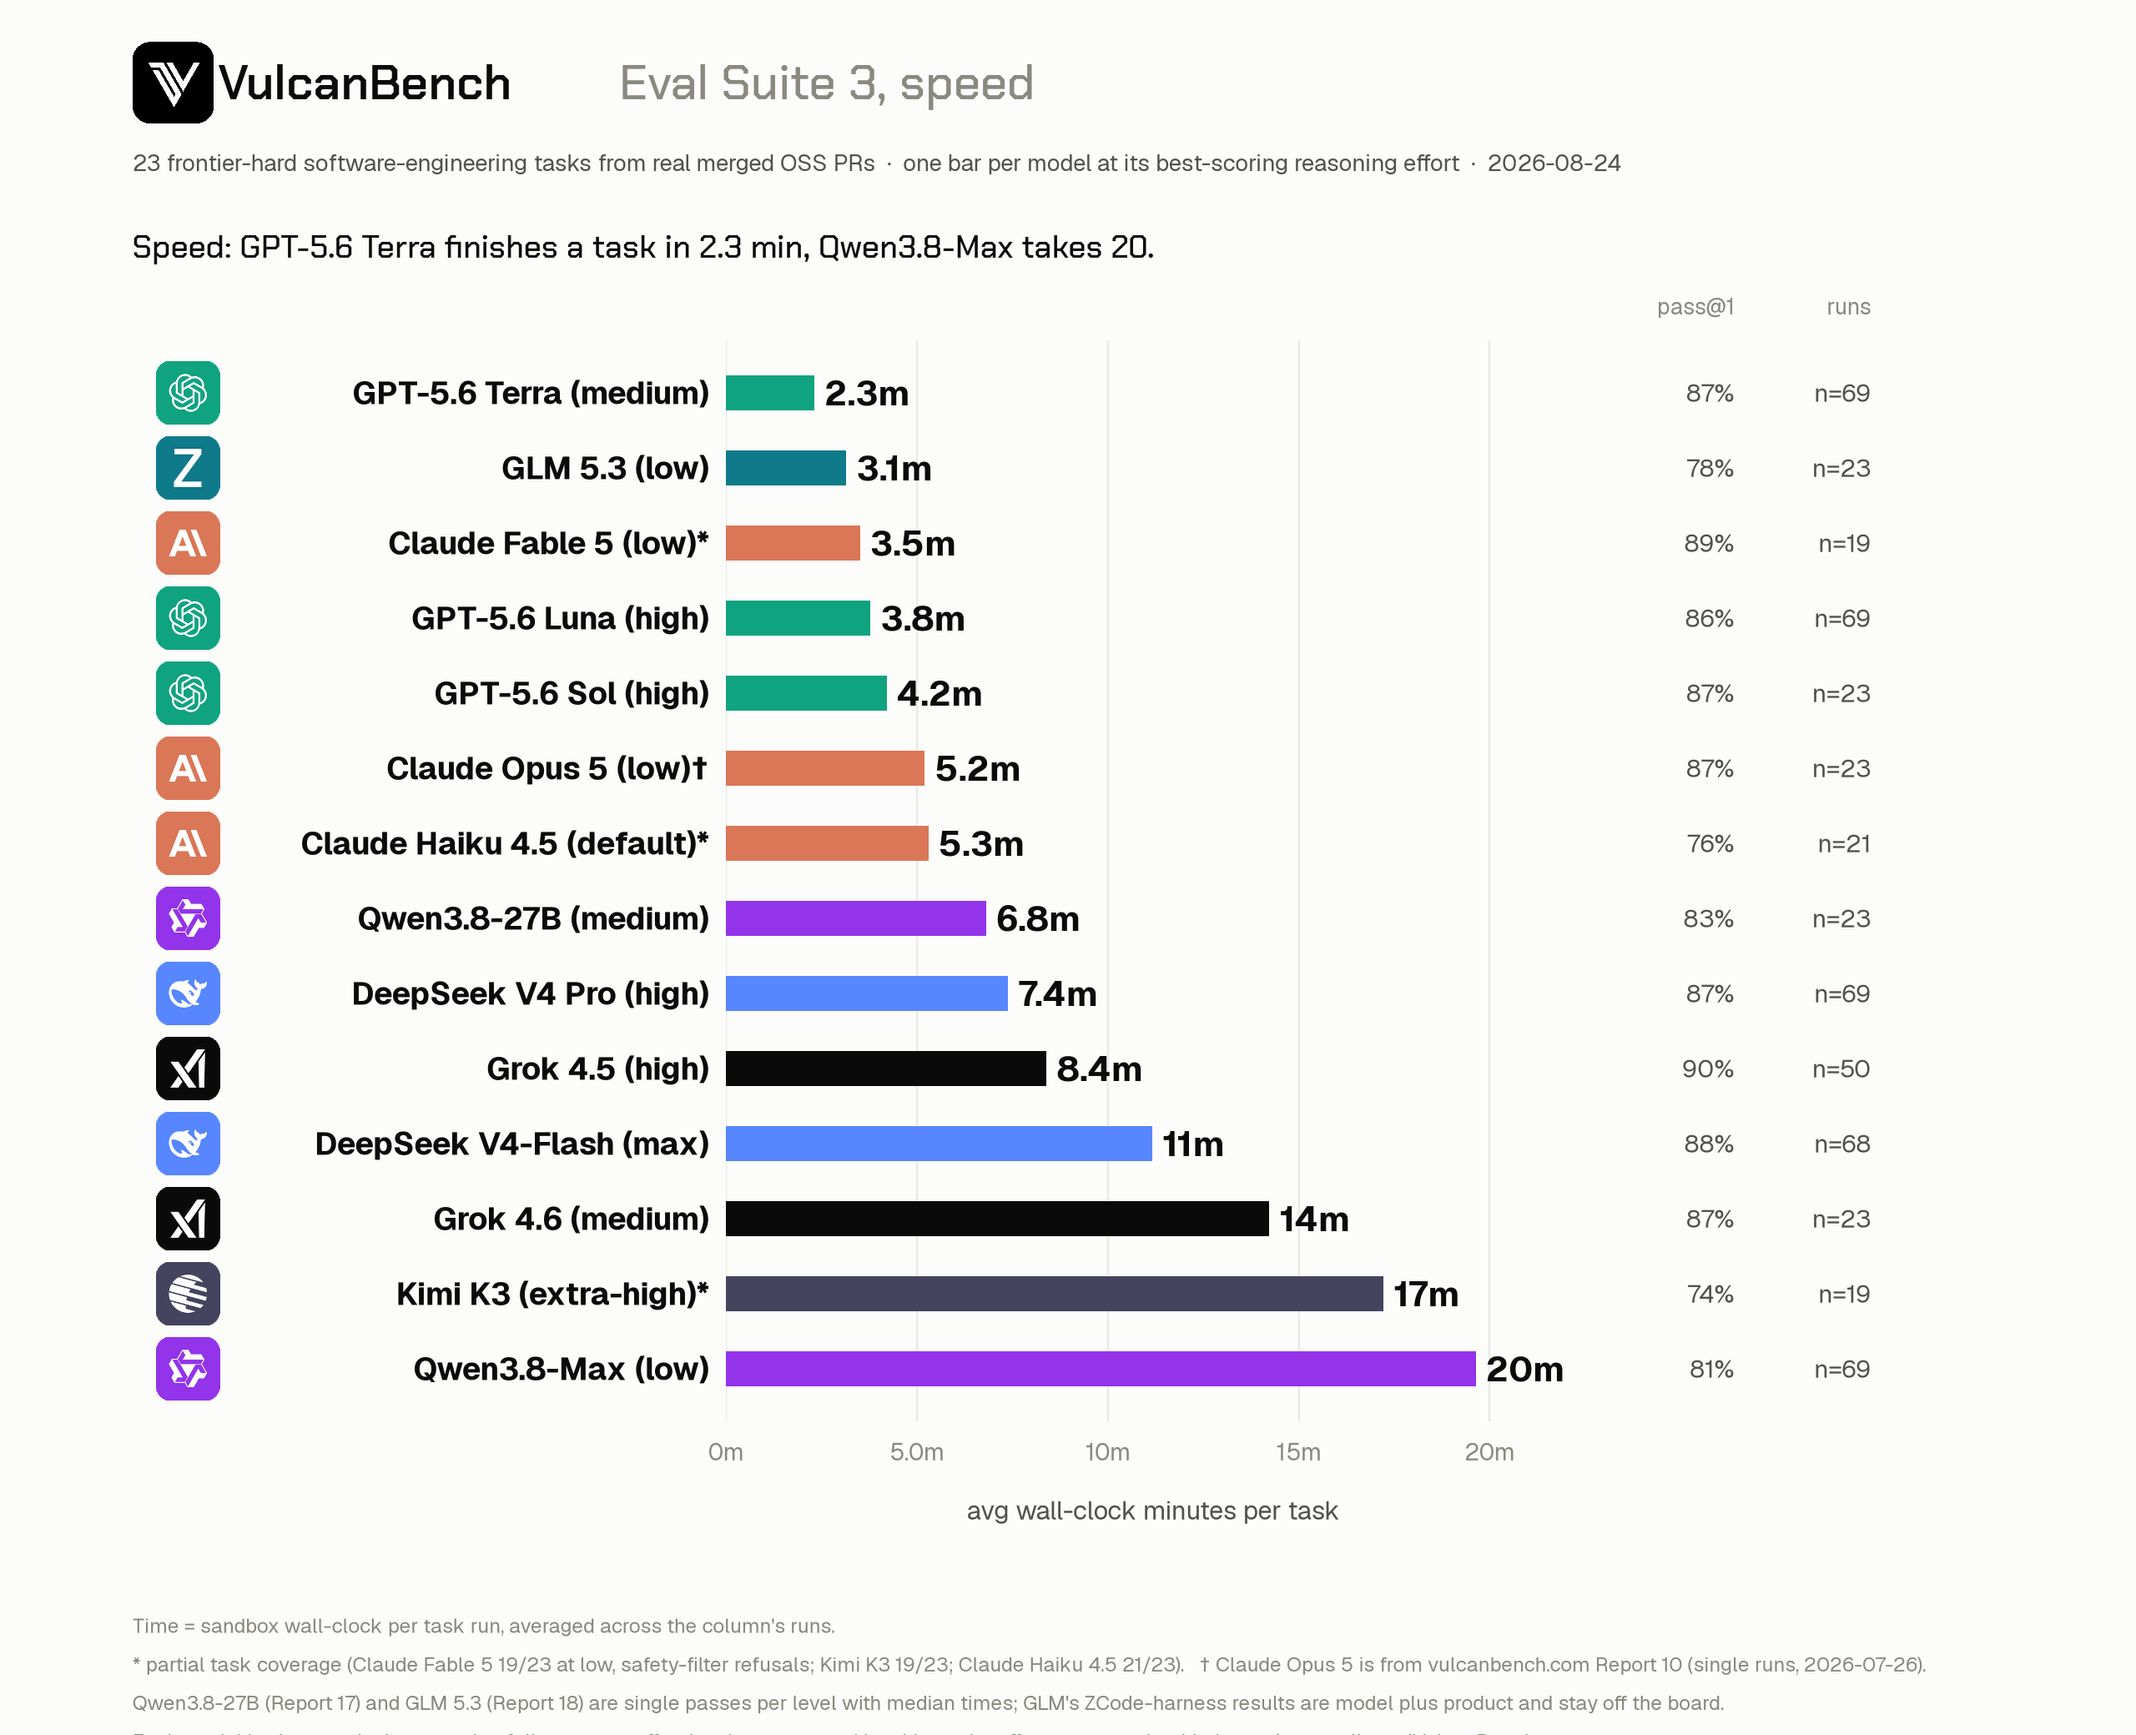
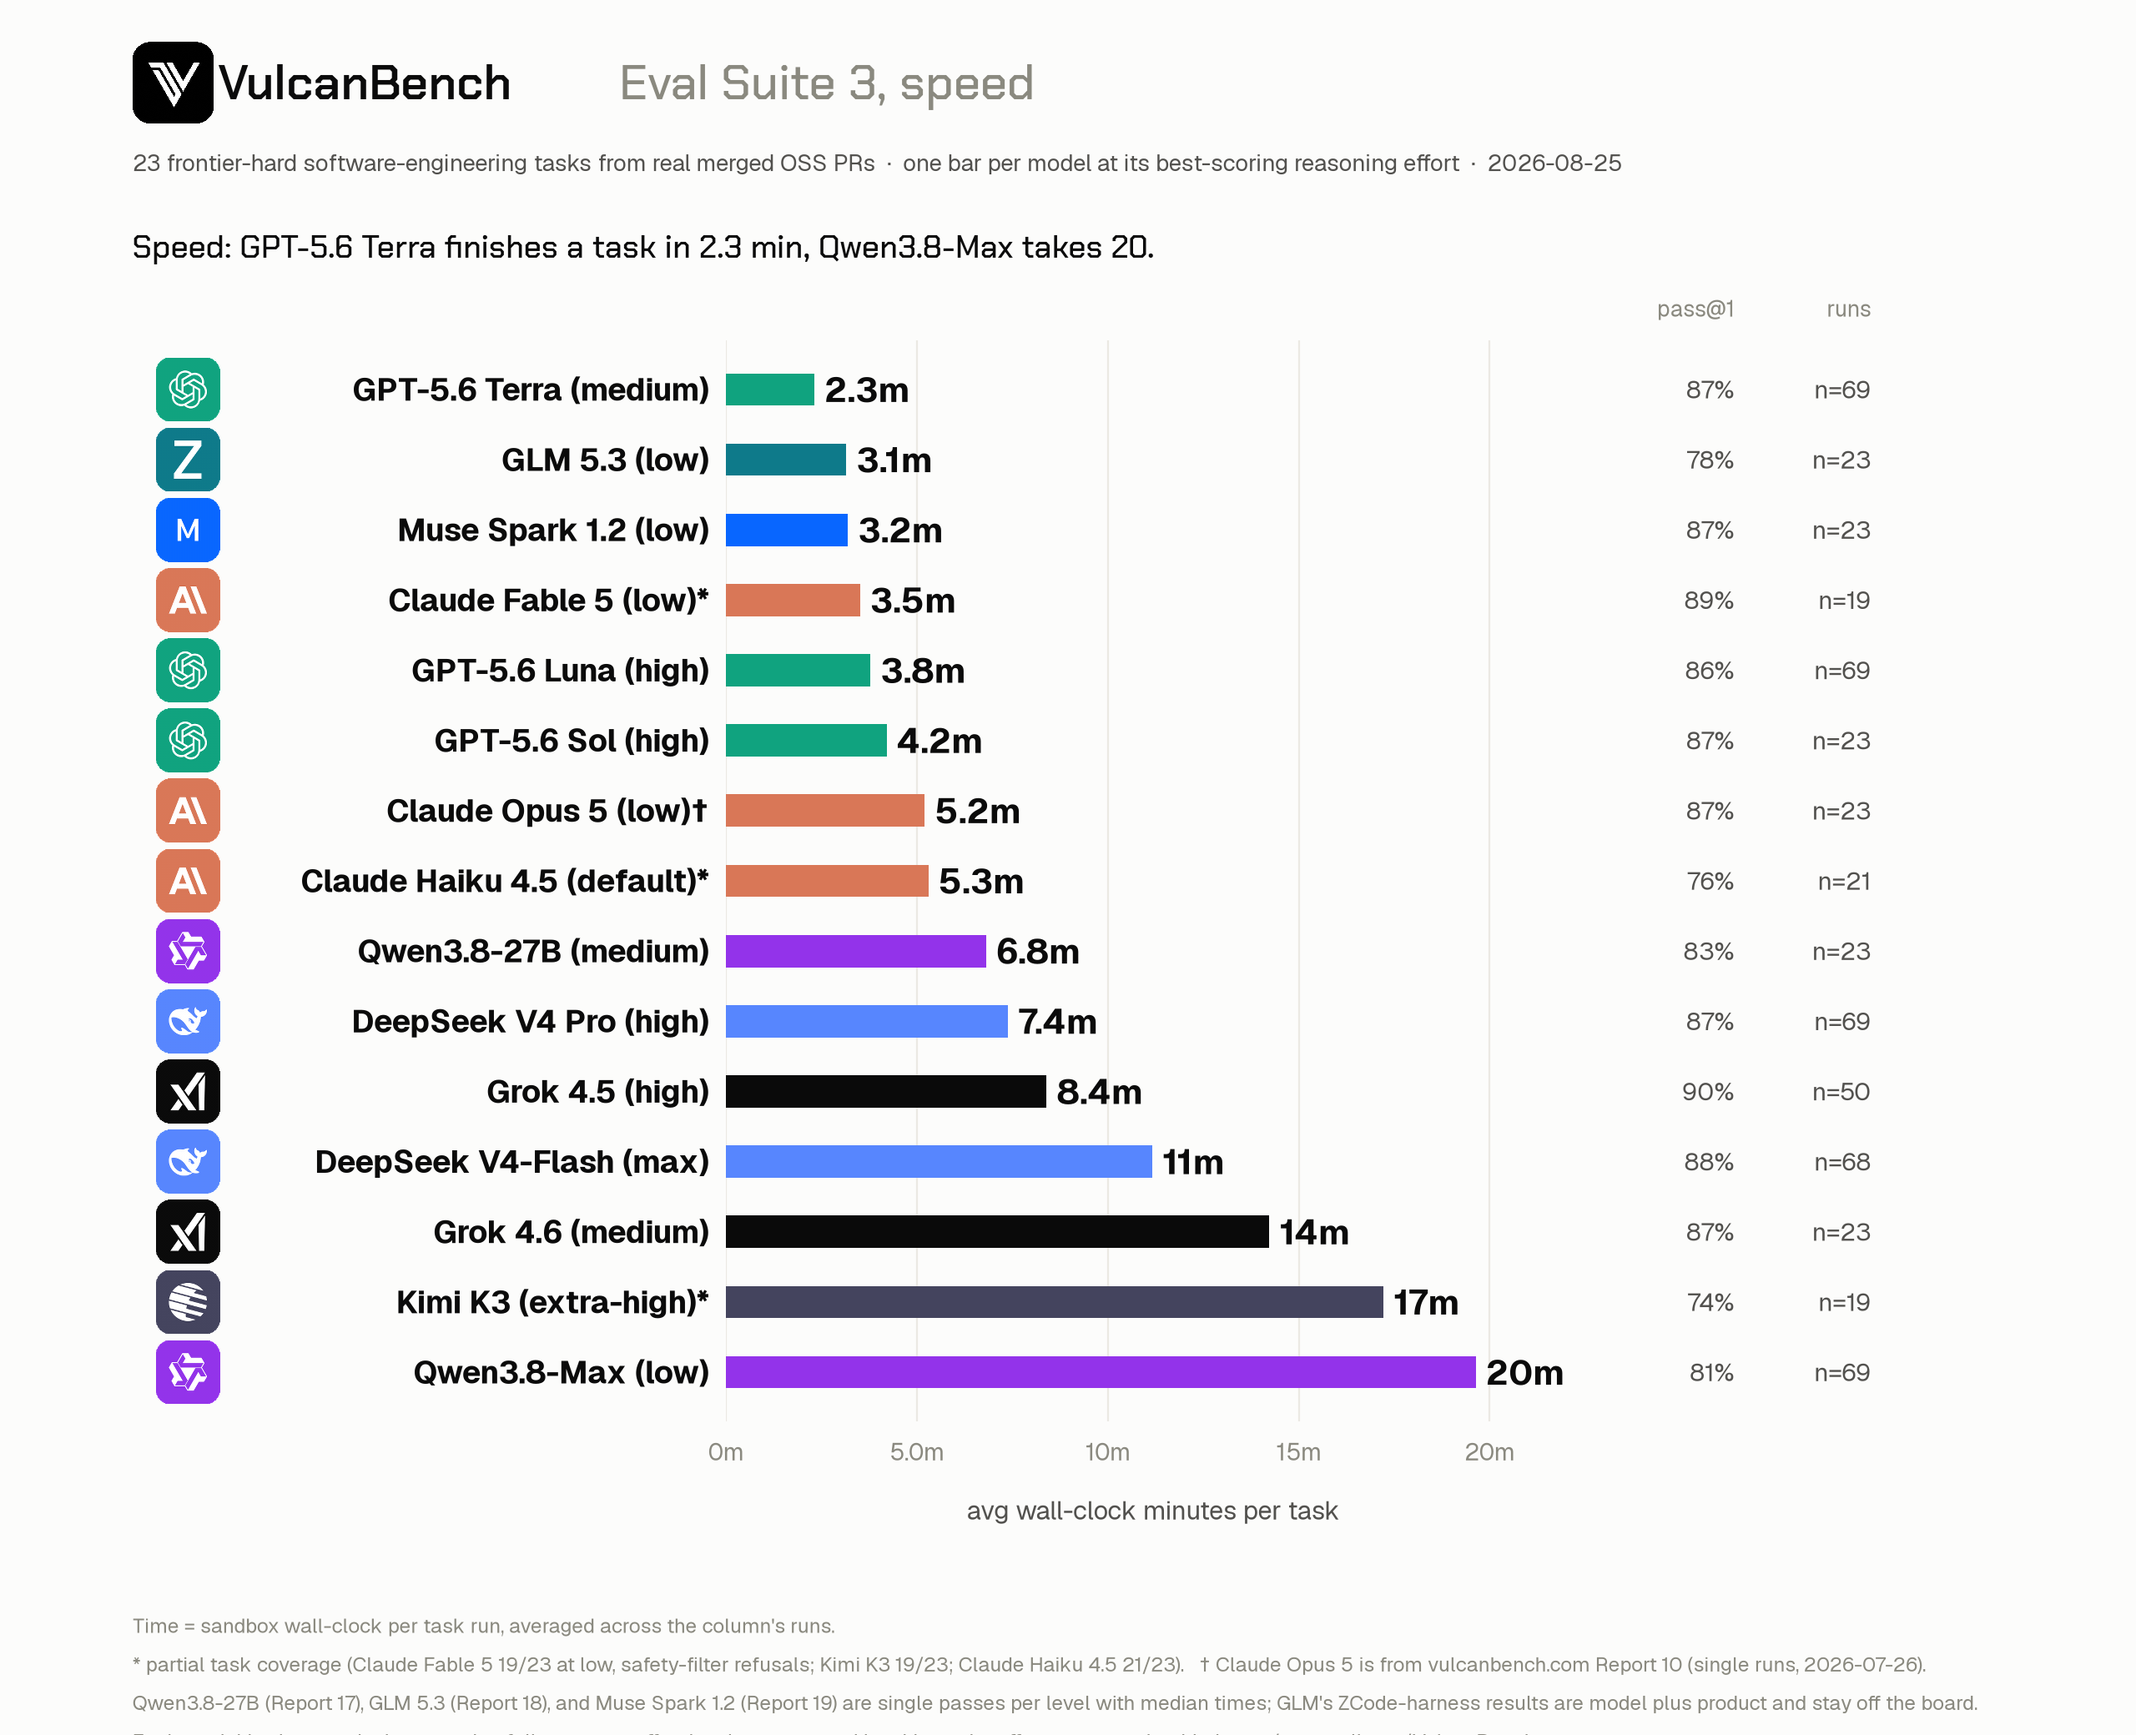
feat: Muse Spark 1.2 joins the rankings-chart pipeline (Report 19)
NAME/LAB_COLOR (Meta blue #0866ff, generated white-M chip), meta: effort
ladder low/high/xhigh, un-exclude meta:muse-spark-1.2 in _common and
make_chart (the stale OpenRouter-routed partial rows it guarded against
are replaced in v3_rankings.json by the fresh Meta-direct ladder from
Report 19: 87.0/73.9/52.2, medians, surgical append per the update_rankings
known-issue note). Dates and footnotes advance to 2026-08-25; tracked card
renders refreshed with 15 models / 42 columns / 12 effort panels.

diff --git a/scripts/rankings-chart/make_chart.py b/scripts/rankings-chart/make_chart.py
@@ -51,6 +51,7 @@ LAB_COLOR = {
     "Alibaba": "#9333EA",
     # Z.ai: deep teal, dE > 15 from every neighbour; all marks stay labelled.
     "Z.ai": "#0e7a8a",
+    "Meta": "#0866ff",
 }
 
 NAME = {
@@ -69,6 +70,7 @@ NAME = {
     "qwen:qwen3.8-max": ("Qwen3.8-Max", "Alibaba"),
     "qwen:qwen3.8-27b": ("Qwen3.8-27B", "Alibaba"),
     "zai:glm-5.3": ("GLM 5.3", "Z.ai"),
+    "meta:muse-spark-1.2": ("Muse Spark 1.2", "Meta"),
 }
 
 
@@ -89,19 +91,18 @@ def eff_display(model: str, eff: str) -> str:
     if eff == "extra-high":
         if model.startswith(("deepseek:", "zai:")):
             return "max"
-        if model.startswith(("qwen:", "xai:")):
+        if model.startswith(("qwen:", "xai:", "meta:")):
             return "xhigh"
     return eff
 
 
 with open(HERE / "v3_rankings.json") as f:
     rows = json.load(f)
-# Deliberate exclusions, not silent drops: Opus 4.8 has 5/23 task coverage;
-# Muse Spark's OpenRouter-routed sweep (minimal full, low capped at 33/69,
-# medium 3 runs) is pending its own via-OpenRouter column treatment.
+# Deliberate exclusions, not silent drops: Opus 4.8 has 5/23 task coverage.
+# (Muse Spark's Meta-direct ladder joined 2026-08-25 from Report 19; the old
+# OpenRouter-routed partial rows never entered this file.)
 EXCLUDED_MODELS = {
     "anthropic:claude-opus-4-8",
-    "meta:muse-spark-1.2",
     "zcode:glm-5.3",  # subscription harness: model plus product, off the board
     "ollama:qwen3.8:27b",  # local-inference control runs
 }
@@ -109,6 +110,8 @@ rows = [r for r in rows if r["model"] not in EXCLUDED_MODELS]
 unknown = {r["model"] for r in rows} - set(NAME)
 if unknown:
     raise SystemExit(f"models missing from NAME (add or exclude explicitly): {unknown}")
+
+
 def model_efforts(model: str) -> list[str]:
     """The provider's own effort ladder, low to high."""
     if model.startswith("deepseek:"):
@@ -117,6 +120,8 @@ def model_efforts(model: str) -> list[str]:
         return ["low", "medium", "extra-high"]  # Qwen: low/medium/xhigh
     if model.startswith("zai:"):
         return ["low", "high", "extra-high"]  # GLM 5.3: low/high/max
+    if model.startswith("meta:"):
+        return ["low", "high", "extra-high"]  # Muse Spark: low/high/xhigh
     if model.startswith("xai:"):
         # Grok 4.6+: low/medium/high/xhigh, four real levels; dropping xhigh
         # would hide the curve's shape (medium peak, high trough, xhigh partial
@@ -323,7 +328,7 @@ fig.text(
     0.9424,
     "23 frontier-hard software-engineering tasks from real merged OSS PRs  ·  "
     "pass@1 at each model's best-scoring reasoning effort  ·  Docker-sandboxed agent runs  ·  "
-    "2026-08-24",
+    "2026-08-25",
     fontsize=11.5,
     color=INK2,
     family=SANS,
@@ -638,8 +643,8 @@ fig.text(
     "are excluded rather than scored 0. "
     "Grok 4.6 columns are a single pass (repeat 1, 2026-08-12) on xAI's API; its "
     "effort scale is low/medium/high/xhigh and its unset-effort default is high. "
-    "Qwen3.8-27B (Report 17) and GLM 5.3 (Report 18) are single passes per level with "
-    "median times; GLM's scale is low/high/max, its unset default is max, and its "
+    "Qwen3.8-27B (Report 17), GLM 5.3 (Report 18), and Muse Spark 1.2 (Report 19) are "
+    "single passes per level with median times; GLM's scale is low/high/max, its unset default is max, and its "
     "ZCode-harness results (model plus product) are excluded from the board.\n"
     "Bar panels show one column per model at its best-scoring effort (ties to the cheaper run); every effort "
     "level is plotted in the effort-curve cards.\n"

diff --git a/scripts/rankings-chart/_common.py b/scripts/rankings-chart/_common.py
@@ -48,6 +48,9 @@ LAB_COLOR = {
     # Z.ai has no official hex in our set; deep teal clears every neighbour
     # by dE > 15 and, like the rest, every mark stays directly labelled.
     "Z.ai": "#0e7a8a",
+    # Meta brand blue; clears DeepSeek's lighter blue at chart sizes because the
+    # marks stay directly labelled (see note above).
+    "Meta": "#0866ff",
 }
 
 NAME = {
@@ -65,11 +68,11 @@ NAME = {
     "qwen:qwen3.8-max": ("Qwen3.8-Max", "Alibaba"),
     "qwen:qwen3.8-27b": ("Qwen3.8-27B", "Alibaba"),
     "zai:glm-5.3": ("GLM 5.3", "Z.ai"),
+    "meta:muse-spark-1.2": ("Muse Spark 1.2", "Meta"),
 }
 
 EXCLUDED = {
     "anthropic:claude-opus-4-8",  # 5/23 task coverage
-    "meta:muse-spark-1.2",  # OpenRouter-routed; needs its own column treatment
     "zcode:glm-5.3",  # subscription harness: model plus product, never a board column
     "ollama:qwen3.8:27b",  # local-inference control runs, not the DashScope column
 }
@@ -85,7 +88,7 @@ def eff_display(model: str, eff: str) -> str:
     if eff == "extra-high":
         if model.startswith(("deepseek:", "zai:")):
             return "max"
-        if model.startswith(("qwen:", "xai:")):
+        if model.startswith(("qwen:", "xai:", "meta:")):
             return "xhigh"
     return eff
 
@@ -102,6 +105,8 @@ def model_efforts(model: str) -> list[str]:
         return ["low", "medium", "extra-high"]  # Qwen: low/medium/xhigh
     if model.startswith("zai:"):
         return ["low", "high", "extra-high"]  # GLM 5.3: low/high/max
+    if model.startswith("meta:"):
+        return ["low", "high", "extra-high"]  # Muse Spark: low/high/xhigh (minimal/medium untested)
     if model.startswith("xai:"):
         return ["low", "medium", "high", "extra-high"]  # Grok 4.6+: adds xhigh
     return ["low", "medium", "high"]

diff --git a/scripts/rankings-chart/make_efforts.py b/scripts/rankings-chart/make_efforts.py
@@ -90,7 +90,7 @@ fig.text(
     L,
     0.888,
     "23 frontier-hard software-engineering tasks from real merged OSS PRs  ·  "
-    "pass@1 vs. each provider's own reasoning-effort ladder  ·  2026-08-24",
+    "pass@1 vs. each provider's own reasoning-effort ladder  ·  2026-08-25",
     fontsize=11.5,
     color=INK2,
     family=SANS,
@@ -276,8 +276,8 @@ fig.text(
     "Larger point = that model's best level. Whiskers are ±1 stderr; most within-model "
     "differences here are inside them, so read the shape, not single-point gaps.\n"
     "Effort names are each provider's own: DeepSeek is low/high/max, Qwen low/medium/xhigh "
-    "(no 'high'), Grok 4.6 adds xhigh above high, GLM 5.3 is low/high/max. Unset-effort "
-    "defaults differ too, Grok defaults to high, Qwen to xhigh, GLM 5.3 to max.\n"
+    "(no 'high'), Grok 4.6 adds xhigh, GLM 5.3 is low/high/max, Muse Spark low/high/xhigh. "
+    "Defaults: Grok high, Qwen xhigh, GLM max, Meta undocumented.\n"
     f"* partial task coverage at one or more levels ({', '.join(sorted(partial_models))}).   "
     "† Claude Opus 5 is from vulcanbench.com Report 10 (single runs, 2026-07-26), not run in "
     "this checkout.   github.com/morganlinton/VulcanBench",

diff --git a/scripts/rankings-chart/make_cards.py b/scripts/rankings-chart/make_cards.py
@@ -36,7 +36,7 @@ from PIL import Image, ImageDraw
 
 register_fonts()
 
-DATE = "2026-08-24"
+DATE = "2026-08-25"
 SUBTITLE = (
     "23 frontier-hard software-engineering tasks from real merged OSS PRs  ·  "
     "one bar per model at its best-scoring reasoning effort  ·  " + DATE
@@ -239,8 +239,8 @@ COMMON_NOTE = (
     "* partial task coverage (Claude Fable 5 19/23 at low, safety-filter refusals; Kimi K3 19/23; "
     "Claude Haiku 4.5 21/23).   † Claude Opus 5 is from vulcanbench.com Report 10 (single runs, "
     "2026-07-26).\n"
-    "Qwen3.8-27B (Report 17) and GLM 5.3 (Report 18) are single passes per level with median "
-    "times; GLM's ZCode-harness results are model plus product and stay off the board.\n"
+    "Qwen3.8-27B (Report 17), GLM 5.3 (Report 18), and Muse Spark 1.2 (Report 19) are single "
+    "passes per level with median times; GLM's ZCode-harness results are model plus product and stay off the board.\n"
     "Each model is shown at its best-scoring full-coverage effort level; every tested level is "
     "on the effort-curve card.   "
     "github.com/morganlinton/VulcanBench"
